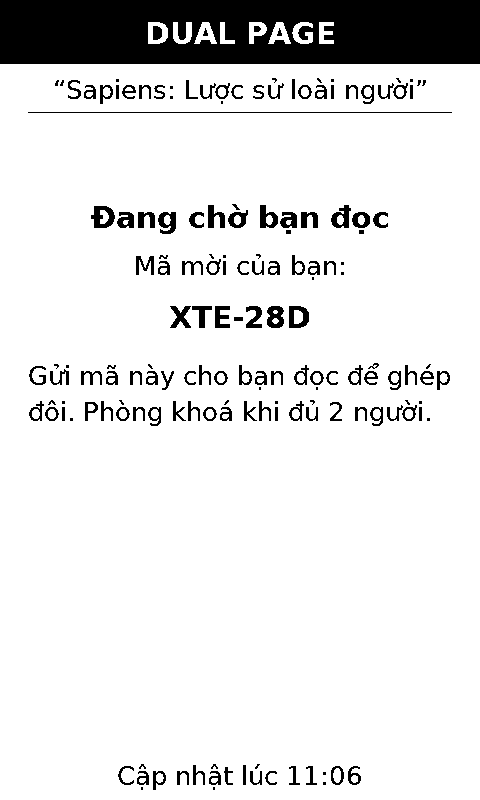
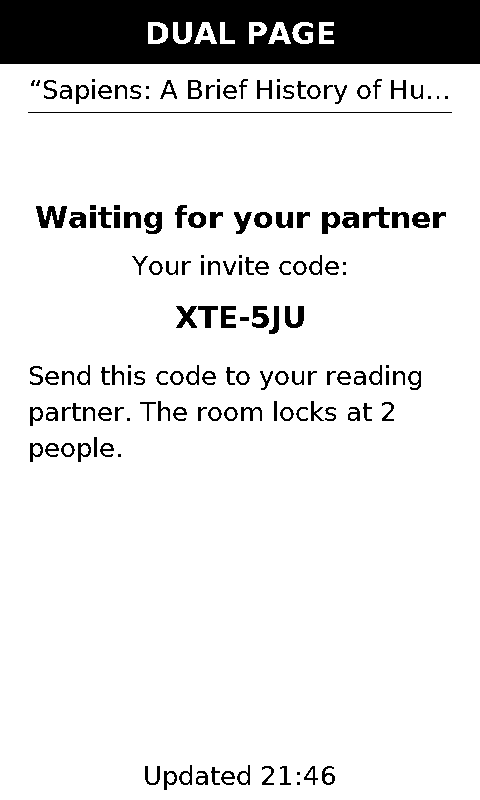
README and technical notes in English; English screenshots
Claude-Session: https://claude.ai/code/session_01CZ6jeTzH3ptqB8Lgy17nV7

diff --git a/README.md b/README.md
@@ -1,99 +1,95 @@
 # Dual Page
 
-**Đọc sách cùng nhau, giữ lửa mỗi ngày.** Dual Page ghép hai người đọc thành một cặp. Hai bạn đọc chung một cuốn sách trong một "sprint" có thời hạn và giữ chung một chuỗi ngày đọc (Duo Streak). Mỗi khi máy đi ngủ, màn hình chờ e-ink hiện tiến độ của cả hai và câu highlight bạn kia vừa chia sẻ.
+**Read together, keep the streak alive.** Dual Page pairs two readers. You read the same book in a time-boxed "sprint" and share one reading streak (the Duo Streak). Every time the reader goes to sleep, the e-ink sleep screen shows both people's progress and the latest highlight your partner shared.
 
-- Trang web: **https://dualpage.online**
-- Thiết bị: XTeink X4 / X4 Pro chạy firmware **CrossPoint 2.0.0** trở lên, cài plugin qua thẻ SD, không cần flash firmware.
-- Thiết bị khác: Kindle, Kobo, PocketBook, Android có **KOReader**. Hai người dùng hai loại máy khác nhau vẫn vào chung một phòng.
-- **[Hướng dẫn sử dụng chi tiết](docs/HUONG-DAN-SU-DUNG.md)** ([PDF](docs/DualPage-HuongDanSuDung.pdf)) · **English:** [User guide](docs/USER-GUIDE.md) ([PDF](docs/DualPage-UserGuide.pdf))
-- Giao diện có tiếng Việt và tiếng Anh (nút VI | EN trên web). Mỗi người chọn ngôn ngữ riêng, màn hình chờ và menu trên máy theo ngôn ngữ đó.
+- Website: **https://dualpage.online**
+- Readers: XTeink X4 / X4 Pro on **CrossPoint 2.0.0** or later, installed as an SD-card plugin (no firmware flashing).
+- Other readers: Kindle, Kobo, PocketBook and Android with **KOReader**. Two people on different readers can share one room.
+- **[User guide](docs/USER-GUIDE.md)** ([PDF](docs/DualPage-UserGuide.pdf)) · **Tiếng Việt:** [Hướng dẫn sử dụng](docs/HUONG-DAN-SU-DUNG.md) ([PDF](docs/DualPage-HuongDanSuDung.pdf))
+- The interface is in English and Vietnamese (VI | EN on the website). Each person picks their own language; their sleep screen and reader menu follow it.
 
 ---
 
-## Tính năng
+## Features
 
 | | |
 |---|---|
-| **Phòng 2 người** | Người tạo phòng nhận mã mời dạng `XTE-XXX`. Phòng khoá khi đủ 2 người. |
-| **Sách chung** | Khi tạo phòng, người tạo nhập tên sách và/hoặc tải file epub lên (tối đa 24 MB). Bạn đọc tải đúng file đó về máy từ menu Dual Page. Chỉ sách chung được tính vào tiến độ. Đọc sách riêng vẫn thoải mái, chỉ không được tính. |
-| **Sprint** | Người tạo chọn 7, 14, 21, 30 ngày hoặc số ngày tuỳ ý, người kia bấm đồng ý. Gia hạn thêm số ngày tuỳ chọn (1–30) khi cả hai cùng đồng ý. |
-| **Duo Streak** | Một ngày được tính khi **cả hai** cùng đọc, theo múi giờ của từng người. Mục tiêu mỗi ngày được tính tự động từ phần sách còn lại và số ngày còn lại. |
-| **Tiến độ tự động** | Máy tự gửi tiến độ sau mỗi phiên đọc. Không cần nhập tay. Sách được nhận diện qua tên file hoặc mã KOSync (partial MD5). |
-| **Chia sẻ highlight** | Highlight trên máy được đồng bộ về Dual Page. Câu mới nhất tự hiện trên màn hình chờ của bạn kia, hoặc chọn câu khác trong menu hay trên web. Giới hạn **140 ký tự**, câu dài hơn được rút gọn. |
-| **Nhắc đọc** | Bấm "Nhắc … đọc" ngay trên máy hoặc trên web. Lời nhắc hiện ở màn hình chờ và menu của bạn kia. |
-| **Recap** | Hết sprint thì có màn tổng kết: chuỗi dài nhất, số ngày đọc, % mỗi người. |
+| **Rooms for two** | The host gets an invite code like `XTE-XXX`. The room locks once two people are in. |
+| **Shared book** | When creating the room, the host enters the book title and/or uploads an epub (up to 24 MB). The partner downloads that exact file from the Dual Page menu on their reader. Only the shared book counts toward progress; other books are fine, they just don't count. |
+| **Sprint** | The host picks 7, 14, 21, 30 days or any length, and the partner accepts. Extend by 1–30 days when both agree. |
+| **Duo Streak** | A day counts when **both** of you read, each in your own time zone. The daily goal is worked out from what's left of the book and the days left. |
+| **Automatic progress** | The reader sends progress after each reading session. Nothing to type. The book is recognised by file name or KOSync document ID (partial MD5). |
+| **Shared highlights** | Highlights sync to Dual Page. Your newest one shows on your partner's sleep screen. The Highlights section shows what each of you is sharing now and the earlier shared quotes (the 10 latest per reader, up to 300 characters each). |
+| **Nudges** | Tap "Send a nudge" on the reader or the website. It shows on your partner's sleep screen and menu. |
+| **Recap** | When the sprint ends you get a summary: shared days, days early, progress and minutes for each of you. |
 
-## Giao diện
+## Screens
 
-### Màn hình chờ e-ink (480×800, 1-bit)
+### E-ink sleep screen (480×800, 1-bit)
 
-| Chờ bạn vào | Chờ đồng ý sprint | Đang đọc | Được nhắc + gia hạn | Tổng kết |
+| Waiting for partner | Waiting to start | Reading | Nudged + extension | Recap |
 |---|---|---|---|---|
 | ![](docs/img/eink-01-waiting.png) | ![](docs/img/eink-02-pending.png) | ![](docs/img/eink-03-active.png) | ![](docs/img/eink-04-nudged-ext.png) | ![](docs/img/eink-05-recap.png) |
 
-Server vẽ ảnh BMP với font tiếng Việt dựng sẵn, và màn hình chỉ đổi khi máy đi ngủ nên rất tiết kiệm pin.
+The server draws a BMP with a built-in font (full Vietnamese diacritics), and the screen only changes when the reader sleeps, so it costs almost no battery.
 
-### Trang web
+### Website
 
-| Tạo phòng | Vào phòng | Chờ bạn |
+| Create a room | Join | Waiting for partner |
 |---|---|---|
 | ![](docs/img/web-01-create.png) | ![](docs/img/web-02-join.png) | ![](docs/img/web-03-waiting.png) |
 
-| Chủ phòng chờ đồng ý | Khách đồng ý sprint |
+| Host waiting to start | Partner accepts the sprint |
 |---|---|
 | ![](docs/img/web-04-pending-host.png) | ![](docs/img/web-05-pending-guest.png) |
 
-| Đang đọc | Được nhắc + đề nghị gia hạn | Tổng kết |
+| Reading | Nudged + extension request | Recap |
 |---|---|---|
 | ![](docs/img/web-06-active.png) | ![](docs/img/web-07-nudged-ext.png) | ![](docs/img/web-08-recap.png) |
 
-### Menu trên máy (Home → Plugins → Dual Page)
+### Reader menu (Home → Plugins → Dual Page)
 
-```
-Chuỗi đọc chung: 4 ngày              Sprint ngày 5/14, còn 9 ngày
-Sách chung: Sapiens: Lược sử loài người
-Tải sách chung về máy                Lưu vào thư mục DualPage
-Bạn: đã đọc 3% / mục tiêu 7%         Tiến độ 35%
-Minh: chưa đọc hôm nay               Tiến độ 30%
-Nhắc Minh đọc                        Lời nhắc hiện khi bạn ấy mở máy
-Minh chia sẻ: “Hạnh phúc không phụ thuộc vào …”
-Câu bạn đang chia sẻ: “Huyền thoại, tôn giáo và tiền bạc …”
-Chia sẻ: “Chúng ta không thuần hoá lúa mì. …”   Chương 5
-Bấm kính lúp ở trên để nhập số ngày muốn gia hạn
-```
+Four sections. Each title shows what's new, e.g. **Today · Minh nudged you to read!**
+
+| Section | What's in it |
+|---|---|
+| **Today** | Shared streak, what each of you read today, nudge button, nudges you received |
+| **Highlights** | What you're sharing with your partner, what they're sharing with you, and earlier shared quotes |
+| **Shared book** | Book title, the file you're reading, download the shared book |
+| **Sprint & extension** | Day X of Y, days left, daily goal, request or accept an extension |
 
 ---
 
-## Bắt đầu nhanh (XTeink + CrossPoint)
+## Quick start (XTeink + CrossPoint)
 
-Hướng dẫn đầy đủ cho cả XTeink và KOReader: [docs/HUONG-DAN-SU-DUNG.md](docs/HUONG-DAN-SU-DUNG.md).
+Full guide for XTeink and KOReader: [docs/USER-GUIDE.md](docs/USER-GUIDE.md).
 
-1. Cập nhật máy lên **CrossPoint 2.0.0** trở lên.
-2. Vào **dualpage.online**, tạo phòng (nhập tên sách, có thể tải epub lên) hoặc nhập mã mời để vào phòng.
-3. Bấm **Tải plugin cho máy**, giải nén vào thẻ SD sao cho có thư mục `/plugins/dualpage/`. Mỗi máy chỉ cài **một lần**. Đổi phòng sau này không cần cài lại.
-4. Trên máy: **Settings → Connectivity → Plugins** → bật Dual Page.
-5. **Settings → Sleep Screen → Custom** để màn hình chờ hiện Dual Page.
-6. Trong trang cài đặt plugin, bấm **Bật chia sẻ highlight**. Nút này trỏ KOSync của máy về Dual Page để đồng bộ highlight.
-7. Mở **Home → Plugins → Dual Page** để xem trạng thái, tải sách chung, nhắc bạn, chia sẻ câu hay hoặc gia hạn.
+1. Update the reader to **CrossPoint 2.0.0** or later.
+2. On **dualpage.online**, create a room (enter the book title, optionally upload the epub) or enter an invite code to join.
+3. Tap **Download the XTeink plugin** and unzip it onto the SD card so you have `/plugins/dualpage/`. Install **once** per reader; switching rooms later doesn't need a reinstall.
+4. On the reader: **Settings → Connectivity → Plugins** → turn on Enabled.
+5. **Settings → Sleep Screen → Custom** so the sleep screen shows Dual Page.
+6. Turn on highlight sharing: open **File Transfer** on the reader, open the address it shows on a computer on the same Wi-Fi, go to **Plugins** and click **Turn on highlight sharing**.
+7. Open **Home → Plugins → Dual Page** to see your status, download the shared book, nudge your partner, or extend the sprint.
 
-Máy cần Wi‑Fi lúc đi ngủ để gửi tiến độ và tải màn hình chờ mới.
-
----
-
-Phần kỹ thuật (cấu trúc mã, API, chạy local, deploy) nằm ở [docs/DEVELOPMENT.md](docs/DEVELOPMENT.md).
+The reader needs Wi-Fi when it goes to sleep to send progress and fetch the new sleep screen.
 
 ---
 
-## Lộ trình
+Technical notes (code layout, API, running locally, deploy) are in [docs/DEVELOPMENT.md](docs/DEVELOPMENT.md).
 
-- [x] Phòng 2 người, mã mời, sprint, gia hạn, Duo Streak
-- [x] Màn hình chờ e-ink tiếng Việt
-- [x] Sách chung (tên sách và file epub), tiến độ tự động
-- [x] Chia sẻ highlight lên màn hình chờ của bạn kia (tự động và chọn tay)
-- [x] Nhắc đọc từ máy và từ web
-- [x] Tên miền dualpage.online
-- [x] Plugin KOReader (Kindle, Kobo), dùng chung phòng với XTeink (chờ test trên máy thật)
-- [ ] Làm mới giao diện trang web cho đẹp và bắt mắt hơn
-- [ ] Chỗ đặt quảng cáo cho nhà sách, nhà xuất bản và nhãn hàng trên trang Dual Page
-- [ ] Nút "Đọc cuốn tiếp theo" sau khi hết sprint, giữ nguyên phòng
-- [x] Bản tiếng Anh: web, màn hình chờ, menu máy, plugin, hướng dẫn
+---
+
+## Roadmap
+
+- [x] Rooms for two, invite codes, sprints, extensions, Duo Streak
+- [x] E-ink sleep screen
+- [x] Shared book (title and epub file), automatic progress
+- [x] Shared highlights on the partner's sleep screen, with share history
+- [x] Nudges from the reader and the website
+- [x] dualpage.online domain
+- [x] KOReader plugin (Kindle, Kobo), sharing rooms with XTeink
+- [x] English: website, sleep screen, reader menus, plugins, guides
+- [ ] A fresher, more eye-catching website design
+- [ ] Ad spots for bookshops, publishers and brands on Dual Page
+- [ ] "Read the next book" after a sprint, keeping the same room

diff --git a/docs/DEVELOPMENT.md b/docs/DEVELOPMENT.md
@@ -1,49 +1,51 @@
-# Dual Page: ghi chú kỹ thuật
+# Dual Page: technical notes
 
-**Backend:** Cloudflare Workers + D1 (SQLite) + KV (lưu file epub). Không có framework và không có dependency khi chạy.
+**Backend:** Cloudflare Workers + D1 (SQLite) + KV (epub files). No framework and no runtime dependencies.
 
 ```
-src/index.js    Router: trang web (/), API (/api/*), endpoint thiết bị (/d/<token>/*), KOSync (/kosync/*)
-src/logic.js    Streak, sprint, mục tiêu ngày, nhận diện sách chung, partial MD5, rút gọn câu 300 ký tự
-src/screen.js   Bố cục màn hình chờ (đang đọc, chờ, tổng kết, chưa vào phòng)
-src/bmp.js      Canvas 1-bit và xuất BMP
-src/font.js     Font glyph sinh từ DejaVu (tools/gen_font.py), có đủ dấu tiếng Việt
-src/plugin.js   Sinh plugin CrossPoint theo từng máy (device.json, config.json, manifest.json, plugin.js)
-src/zip.js      Tạo file zip (store-only)
-src/web.js      Trang web đồng hành (tiếng Việt)
-schema.sql      Bảng: rooms, members, daily, devices, highlights, seen_events, quotes
-migrations.sql  Thêm cột sách chung cho bảng rooms (chạy an toàn nhiều lần)
+src/index.js    Router: website (/), API (/api/*), device endpoints (/d/<token>/*), KOSync (/kosync/*)
+src/logic.js    Streak, sprint, daily goal, shared-book matching, partial MD5, quotes trimmed to 300 characters
+src/screen.js   Sleep-screen layouts (reading, waiting, recap, no room)
+src/bmp.js      1-bit canvas with BMP/PNG output
+src/font.js     Glyph font generated from DejaVu (tools/gen_font.py), with full Vietnamese diacritics
+src/plugin.js   Builds the per-reader CrossPoint plugin (device.json, config.json, manifest.json, plugin.js)
+src/ko/main.lua KOReader plugin (served to readers, updates itself)
+src/zip.js      Store-only zip writer
+src/web.js      Companion website (English and Vietnamese)
+schema.sql      Tables: rooms, members, daily, devices, highlights, shares, kosync, seen_events, quotes
+migrations.sql  Added columns (safe to run repeatedly)
 ```
 
-### Plugin CrossPoint hoạt động thế nào
+### How the CrossPoint plugin works
 
-Plugin chỉ là file cấu hình trên thẻ SD. Firmware tự gọi về server theo sự kiện:
+The plugin is just config files on the SD card. The firmware calls the server on events:
 
-- `reader.session` gửi `POST /d/<token>/session` khi kết thúc phiên đọc, gồm % đầu/cuối, số giây, mã sách và tên file.
-- `reader.exit` gửi % khi thoát sách.
-- `sleep.enter` tải `/d/<token>/sleep.bmp` về `/sleep.bmp`. Đây là màn hình chờ.
-- Menu plugin là catalog JSON `/d/<token>/home`. Mỗi dòng bấm được là một lượt "tải" nhỏ `/d/<token>/act/<id>`, dùng cho nhắc, gia hạn, chia sẻ, hoặc tải epub vào `/DualPage`.
-- Highlight đi qua tính năng **Sync Clippings** của KOSync: `PUT /kosync/api/v1/clippings/<doc>`.
+- `reader.session` sends `POST /d/<token>/session` at the end of a reading session, with start/end %, seconds, document ID and file name.
+- `reader.exit` sends the % when leaving a book.
+- `sleep.enter` downloads `/d/<token>/sleep.bmp` to `/sleep.bmp`. That is the sleep screen.
+- The plugin menu is the JSON catalog `/d/<token>/home`. Each tappable row is a small "download" of `/d/<token>/act/<id>`, used for nudges, extensions, sharing, or saving the epub to `/DualPage`.
+- Highlights arrive through KOSync's **Sync Clippings**: `PUT /kosync/api/v1/clippings/<doc>`.
 
-Mỗi máy có một **device token** riêng gắn với người trong phòng. Khi đổi phòng, server gắn lại token này nên plugin không phải cài lại.
+Each reader has its own **device token** tied to a person in a room. When they switch rooms, the server re-links the token, so the plugin never needs reinstalling.
 
-### API chính (`/api/*`)
+### Main API (`/api/*`)
 
-`rooms` (tạo phòng) · `join` · `state` · `device` · `accept` · `sprint` · `extend` · `nudge` · `nudge/dismiss` · `share` · `rebind` · `book/title` · `book/upload` · `book/file` · `plugin.zip`
+`rooms` (create a room) · `join` · `state` · `device` · `accept` · `sprint` · `extend` · `nudge` · `nudge/dismiss` · `share` · `rebind` · `leave` · `lang` · `book/title` · `book/upload` · `book/file` · `plugin.zip` · `koplugin.zip`
 
-### Chạy local
+### Run locally
 
 ```bash
 npm ci
 npx wrangler d1 execute readpal --local --file schema.sql
+npx wrangler d1 execute readpal --local --file migrations.sql
 npx wrangler dev --local        # http://localhost:8787
 ```
 
 ### Deploy
 
-Mỗi lần push lên `main`, GitHub Actions (`.github/workflows/deploy.yml`) sẽ chạy `scripts/deploy.sh`. Script này:
-- tạo D1 `readpal` và KV `dualpage-books` nếu chưa có, chạy schema và migration;
-- deploy Worker `dualpage` (tên miền riêng **dualpage.online**);
-- chạy smoke test tạo phòng trên dualpage.online.
+Every push to `main` runs `scripts/deploy.sh` through GitHub Actions (`.github/workflows/deploy.yml`). The script:
+- creates the D1 database `readpal` and KV namespace `dualpage-books` if missing, and runs the schema and migrations;
+- deploys the `dualpage` Worker (custom domain **dualpage.online**);
+- runs a smoke test that creates a room on dualpage.online.
 
-Cần secret `CLOUDFLARE_API_TOKEN` trong repo (quyền Workers Scripts, D1, Workers KV).
+The repo needs a `CLOUDFLARE_API_TOKEN` secret (Workers Scripts, D1 and Workers KV permissions).
